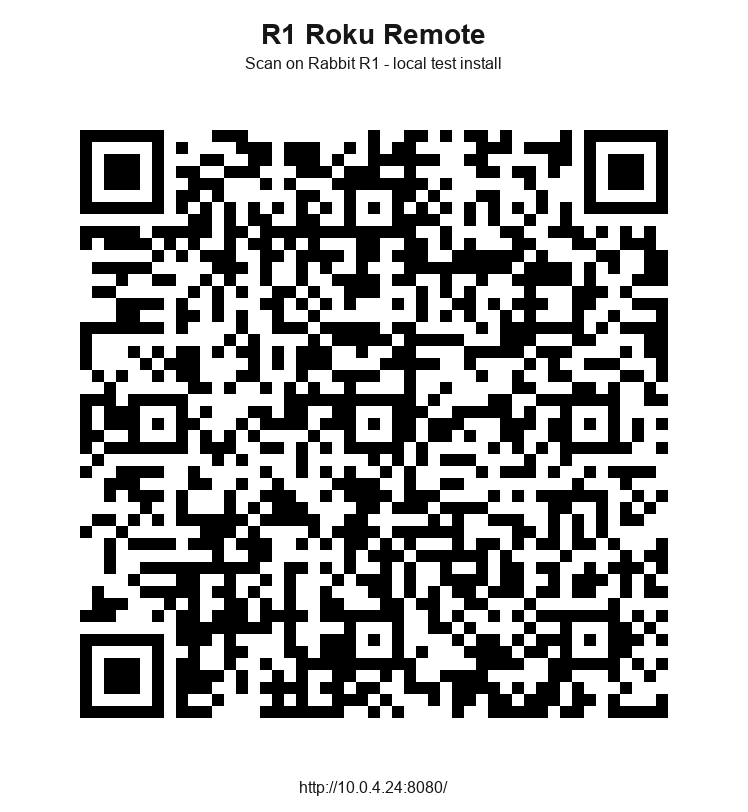
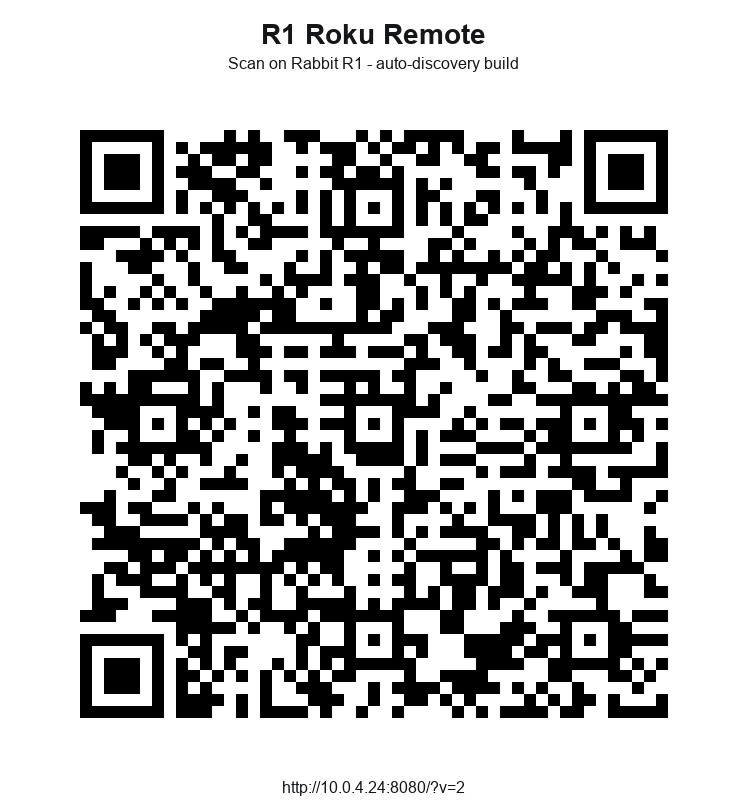
Auto-select discovered Roku

diff --git a/web-creation/bridge/server.js b/web-creation/bridge/server.js
@@ -1,5 +1,6 @@
 const dgram = require("dgram");
 const http = require("http");
+const os = require("os");
 const { URL } = require("url");
 
 const PORT = Number(process.env.PORT || 8787);
@@ -20,6 +21,10 @@ const server = http.createServer(async (req, res) => {
     }
     if (req.method === "GET" && url.pathname === "/discover") {
       const devices = await discoverRokus();
+      if (!devices.length) {
+        const scanned = await scanLocalSubnets();
+        devices.push(...scanned);
+      }
       json(res, { devices });
       return;
     }
@@ -127,6 +132,55 @@ function queryDevice(ip) {
   }));
 }
 
+async function scanLocalSubnets() {
+  const prefixes = localPrefixes();
+  const found = new Map();
+  for (const prefix of prefixes) {
+    await scanPrefix(prefix, found);
+  }
+  return [...found.values()];
+}
+
+function localPrefixes() {
+  const prefixes = new Set();
+  for (const entries of Object.values(os.networkInterfaces())) {
+    for (const entry of entries || []) {
+      if (entry.family !== "IPv4" || entry.internal) {
+        continue;
+      }
+      const parts = entry.address.split(".");
+      if (parts.length === 4) {
+        prefixes.add(`${parts[0]}.${parts[1]}.${parts[2]}.`);
+      }
+    }
+  }
+  return [...prefixes];
+}
+
+async function scanPrefix(prefix, found) {
+  const candidates = [];
+  for (let i = 1; i < 255; i++) {
+    candidates.push(`${prefix}${i}`);
+  }
+
+  let cursor = 0;
+  const workers = Array.from({ length: 48 }, async () => {
+    while (cursor < candidates.length) {
+      const ip = candidates[cursor++];
+      if (found.has(ip)) {
+        continue;
+      }
+      try {
+        const device = await queryDevice(ip);
+        found.set(ip, device);
+      } catch {
+        // Most LAN addresses are not Roku devices.
+      }
+    }
+  });
+  await Promise.all(workers);
+}
+
 function postKey(ip, key) {
   return request("POST", `http://${ip}:8060/keypress/${encodeURIComponent(key)}`)
     .then(() => true)
@@ -190,4 +244,3 @@ function tag(xml, name) {
 function first(...values) {
   return values.find(value => value && String(value).trim()) || "";
 }
-

diff --git a/web-creation/js/app.js b/web-creation/js/app.js
@@ -82,6 +82,14 @@
                 setStatus("No Roku devices found");
                 return;
             }
+            if (!state.rokuIp) {
+                state.rokuIp = json.devices[0].ip;
+                state.bridgeUrl = bridge;
+                ipInput.value = state.rokuIp;
+                bridgeInput.value = state.bridgeUrl;
+                await saveState();
+                setStatus("Selected " + state.rokuIp);
+            }
             json.devices.forEach(function (device) {
                 var button = document.createElement("button");
                 button.textContent = (device.name || "Roku") + " " + device.ip;
